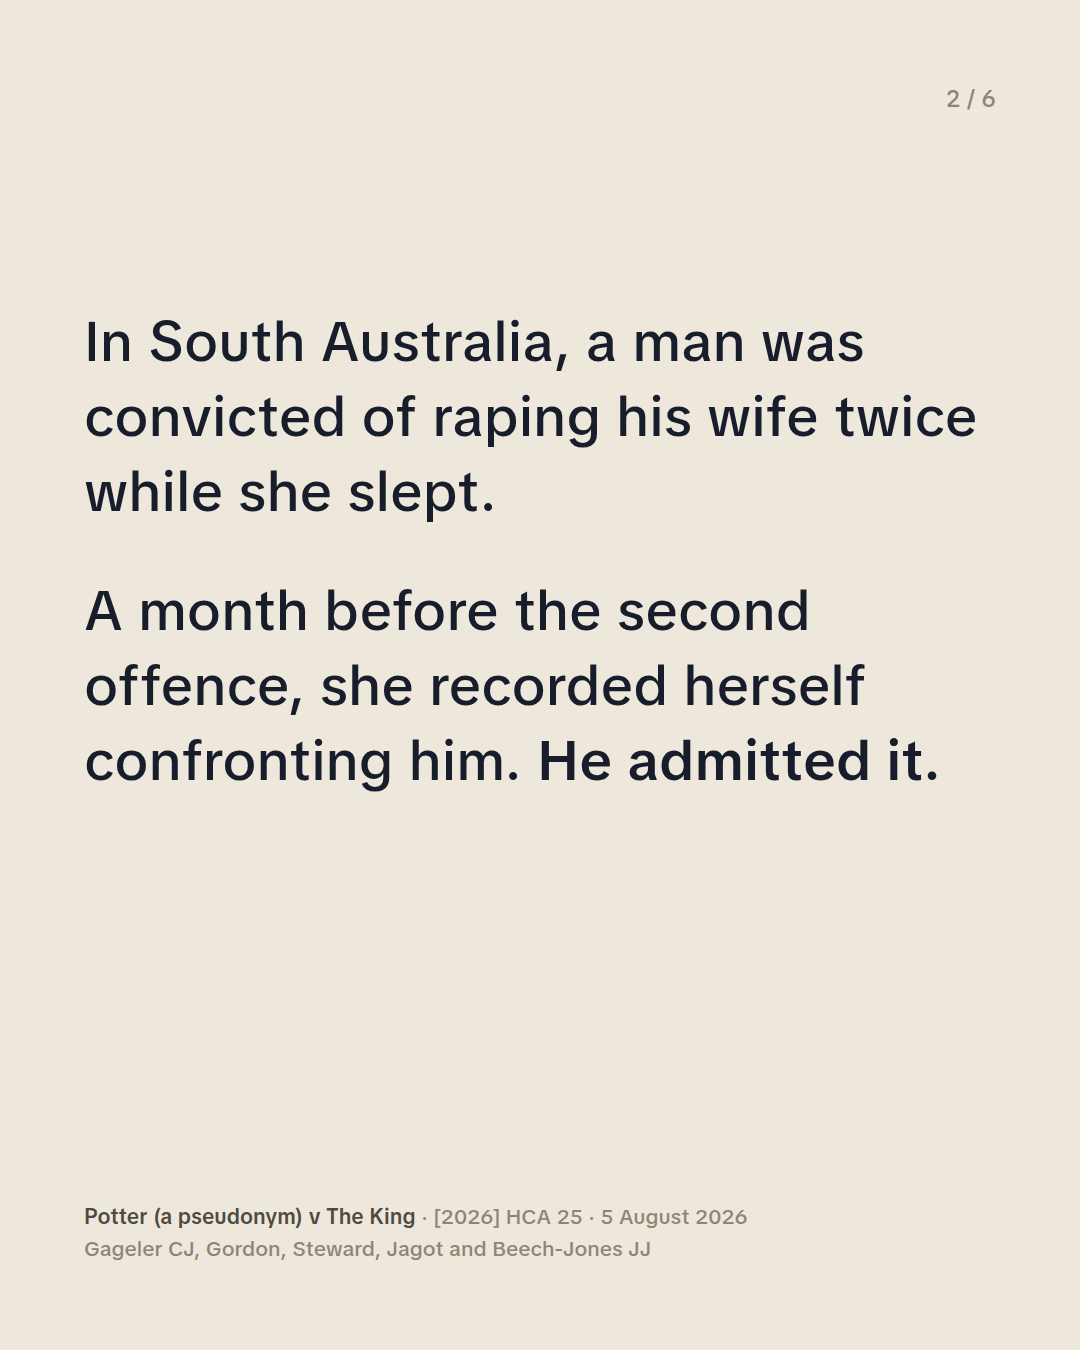
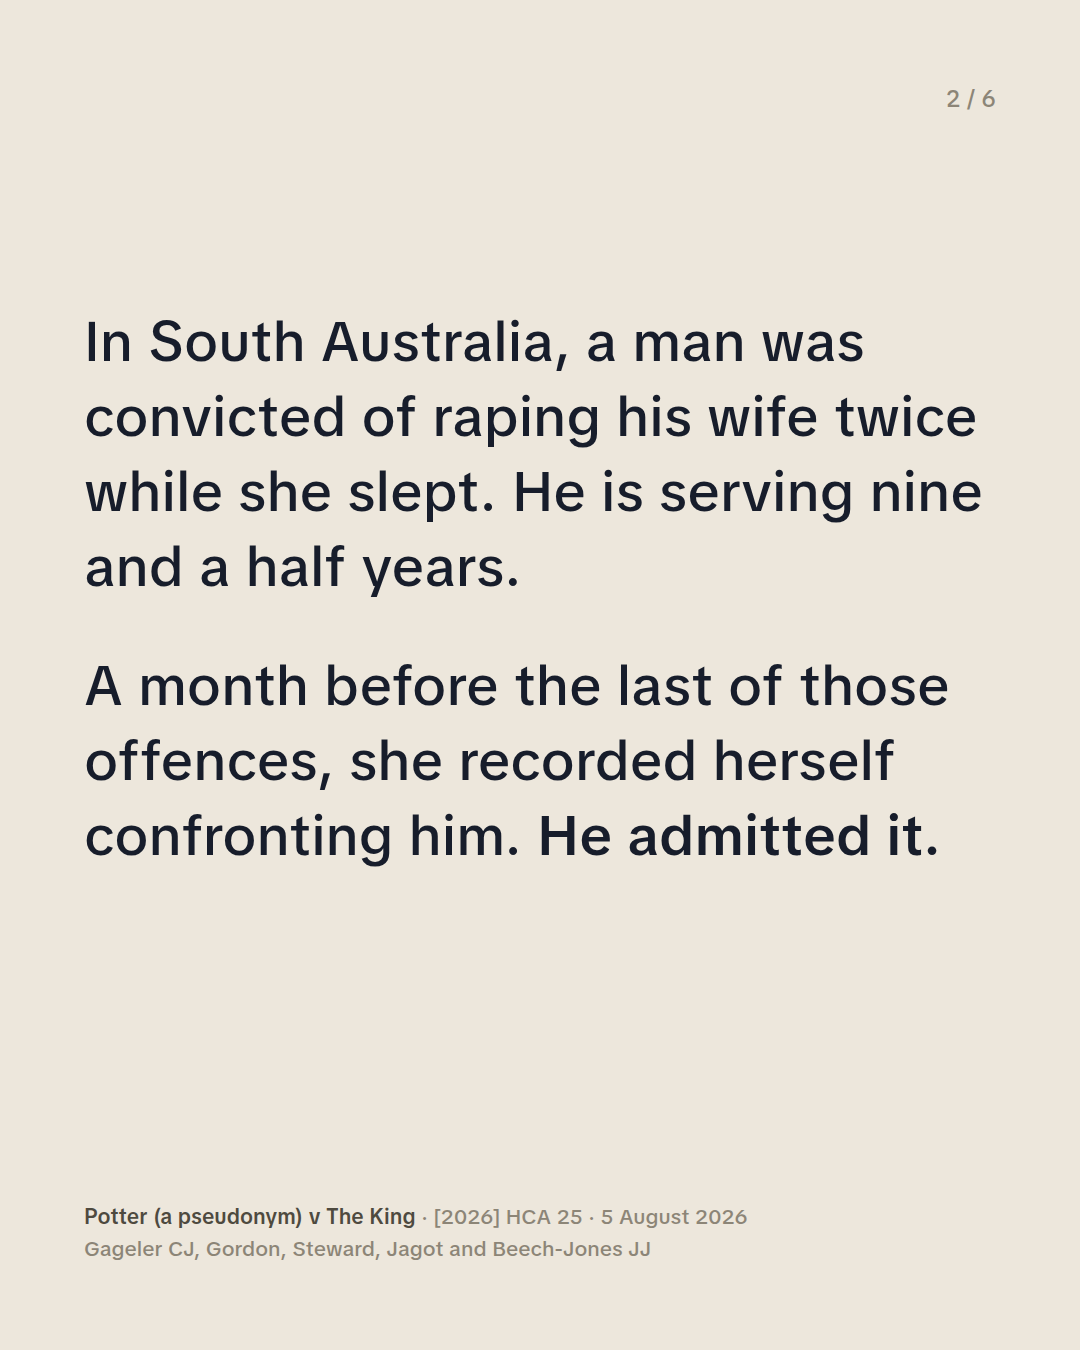
Verify Potter facts and tighten slide 2
Second independent check against AAP-syndicated reporting confirms
citation, date, bench, unanimity, outcome and both quotations. Slide 2
now says 'the last of those offences' rather than 'the second offence'
(two further counts were undecided) and adds the nine and a half year
sentence. Verification detail expanded in the posting kit.

Claude-Session: https://claude.ai/code/session_01JRjeUUcoRT5GxuTf3inkfN

Changed region(s): [[0.0611, 0.4667, 0.8861, 0.6533], [0.0611, 0.4044, 0.7639, 0.4667], [0.4583, 0.3422, 0.9167, 0.4044]]

diff --git a/tools/carousel/build.py b/tools/carousel/build.py
@@ -195,7 +195,7 @@ slide("p1", K_P, 1,
     'The High Court has ruled that a woman who secretly recorded her husband admitting to raping her <span class="u">broke no law.</span>',
     CITE_P, size="lg", swipe="Swipe &rarr;")
 slide("p2", K_P, 2,
-    '<p>In South Australia, a man was convicted of raping his wife twice while she slept.</p><p>A month before the second offence, she recorded herself confronting him. <strong>He admitted it.</strong></p>',
+    '<p>In South Australia, a man was convicted of raping his wife twice while she slept. He is serving nine and a half years.</p><p>A month before the last of those offences, she recorded herself confronting him. <strong>He admitted it.</strong></p>',
     CITE_P)
 slide("p3", K_P, 3,
     '<p>Surveillance devices laws generally prohibit recording a private conversation without consent.</p><p>The exception: where recording is <span class="u">reasonably necessary to protect the lawful interests</span> of the person making it.</p>',

diff --git a/reports/assets/2026-08-07/POSTING-KIT.md b/reports/assets/2026-08-07/POSTING-KIT.md
@@ -64,7 +64,9 @@ The High Court, unanimously, in Potter (a pseudonym) v The King [2026] HCA 25: a
 
 ## Notes
 
-- Facts, outcome, quotations, date and bench verified against SBS News and Australian Community Media reporting of the judgment (5 to 6 August 2026) and the High Court's recent judgments listing.
+- **Verification (checked twice, independently):** case name, [2026] HCA 25, delivered Wednesday 5 August 2026, bench of Gageler CJ with Gordon, Steward, Jagot and Beech-Jones JJ, unanimous, appeal dismissed. Confirmed against the High Court's recent judgments listing plus AAP-syndicated reporting carried by SBS News, Newcastle Herald, Illawarra Mercury, The Examiner and others (5 to 6 August 2026).
+- Also confirmed: convictions on two counts of raping his sleeping wife, jury could not reach a verdict on two further counts, he is serving nine and a half years, the recording was made a month before the last of the offences, and the complainant's evidence that she made it to "convince myself never to go back to him no matter what happened".
+- Both quotations on the slides are the Court's own words as reported: "The covert recording was the reminder to the complainant, by replaying it to herself, to avoid being exposed to the real risk of being raped" and "The interest of a person in not being raped is an interest deserving of the very strongest protection". The reasoning was expressed in terms of protecting bodily autonomy and integrity.
 - The slides deliberately do not cite a specific section of the South Australian surveillance devices legislation, because the provision number was not confirmed at compile time. Add it from the judgment before publication if you want the precision.
 - Also delivered 5 August: The King v HCZ [2026] HCA 24 (youth sentencing, "special circumstances" under the Youth Justice Act 1992 (Qld)), Mpwerempwer Aboriginal Corporation RNTBC v Minister [2026] HCA 23, and two immigration matters, [2026] HCA 26 and 27. Any of these could carry a future post.
 - Given subject matter, consider turning off or closely moderating comments.
